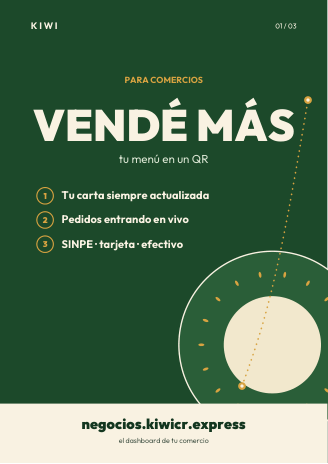
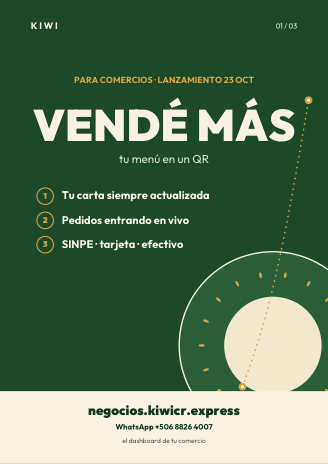
Update posters: launch date, WhatsApp contact, client prelaunch

diff --git a/afiches/build_afiches.py b/afiches/build_afiches.py
@@ -77,7 +77,7 @@ def kiwi_slice(c, cx, cy, r, accent):
         c.restoreState()
 
 
-def page(c, num, eyebrow, verb, sub, benefits, url, tagline, accent, slice_xy):
+def page(c, num, eyebrow, verb, sub, benefits, url, tagline, contact, accent, slice_xy):
     c.setFillColor(GREEN)
     c.rect(0, 0, W, H, stroke=0, fill=1)
 
@@ -130,16 +130,18 @@ def page(c, num, eyebrow, verb, sub, benefits, url, tagline, accent, slice_xy):
         c.drawString(M + 56, y, b)
         y -= 44
 
-    # franja pie
-    band_h = 108
+    # franja pie: url + contacto + tagline
+    band_h = 132
     c.setFillColor(CREAM)
     c.rect(0, 0, W, band_h, stroke=0, fill=1)
     c.setFillColor(GREEN_DEEP)
-    c.setFont("Outfit-Black", 26)
-    c.drawCentredString(W / 2, 62, url)
-    c.setFont("Outfit", 13)
+    c.setFont("Outfit-Black", 24)
+    c.drawCentredString(W / 2, 88, url)
+    c.setFont("Outfit-Bold", 14)
+    c.drawCentredString(W / 2, 62, contact)
+    c.setFont("Outfit", 12)
     c.setFillColor(HexColor("#4A5A4C"))
-    c.drawCentredString(W / 2, 36, tagline)
+    c.drawCentredString(W / 2, 38, tagline)
     c.showPage()
 
 
@@ -148,24 +150,27 @@ def main():
     c.setTitle("Kiwi — Afiches comercios, clientes y repartidores")
     c.setAuthor("Kiwi")
     page(
-        c, "01", "PARA COMERCIOS", "VENDÉ MÁS",
+        c, "01", "PARA COMERCIOS · LANZAMIENTO 23 OCT", "VENDÉ MÁS",
         "tu menú en un QR",
         ["Tu carta siempre actualizada", "Pedidos entrando en vivo", "SINPE · tarjeta · efectivo"],
         "negocios.kiwicr.express", "el dashboard de tu comercio",
+        "WhatsApp +506 8826 4007",
         GOLD, (W - 100, 215),
     )
     page(
-        c, "02", "PARA CLIENTES", "PEDÍ YA",
-        "sin filas, sin llamadas",
-        ["Escaneá el QR de tu local", "Pagá como quieras", "Seguí tu pedido en vivo"],
-        "kiwicr.express", "tu menú QR a un escaneo",
+        c, "02", "PARA CLIENTES · MUY PRONTO", "PRÓXIMAMENTE",
+        "la app de clientes llega pronto",
+        ["Dejá tu correo y te avisamos", "Comercios desde el 23 de octubre", "Mientras tanto, pedí por WhatsApp"],
+        "www.kiwicr.express", "avisame del lanzamiento en la app",
+        "WhatsApp +506 8826 4007",
         CLAY, (W - 100, 215),
     )
     page(
-        c, "03", "PARA REPARTIDORES", "REPARTÍ",
+        c, "03", "PARA REPARTIDORES · LANZAMIENTO 23 OCT", "REPARTÍ",
         "a tu ritmo, cerca tuyo",
         ["Aceptá pedidos cuando quieras", "Mapa y rutas incluidos", "Retiros de tus ganancias"],
         "repartidores.kiwicr.express", "ganá con cada entrega",
+        "WhatsApp +506 8826 4007",
         LIME, (W - 100, 215),
     )
     c.save()
